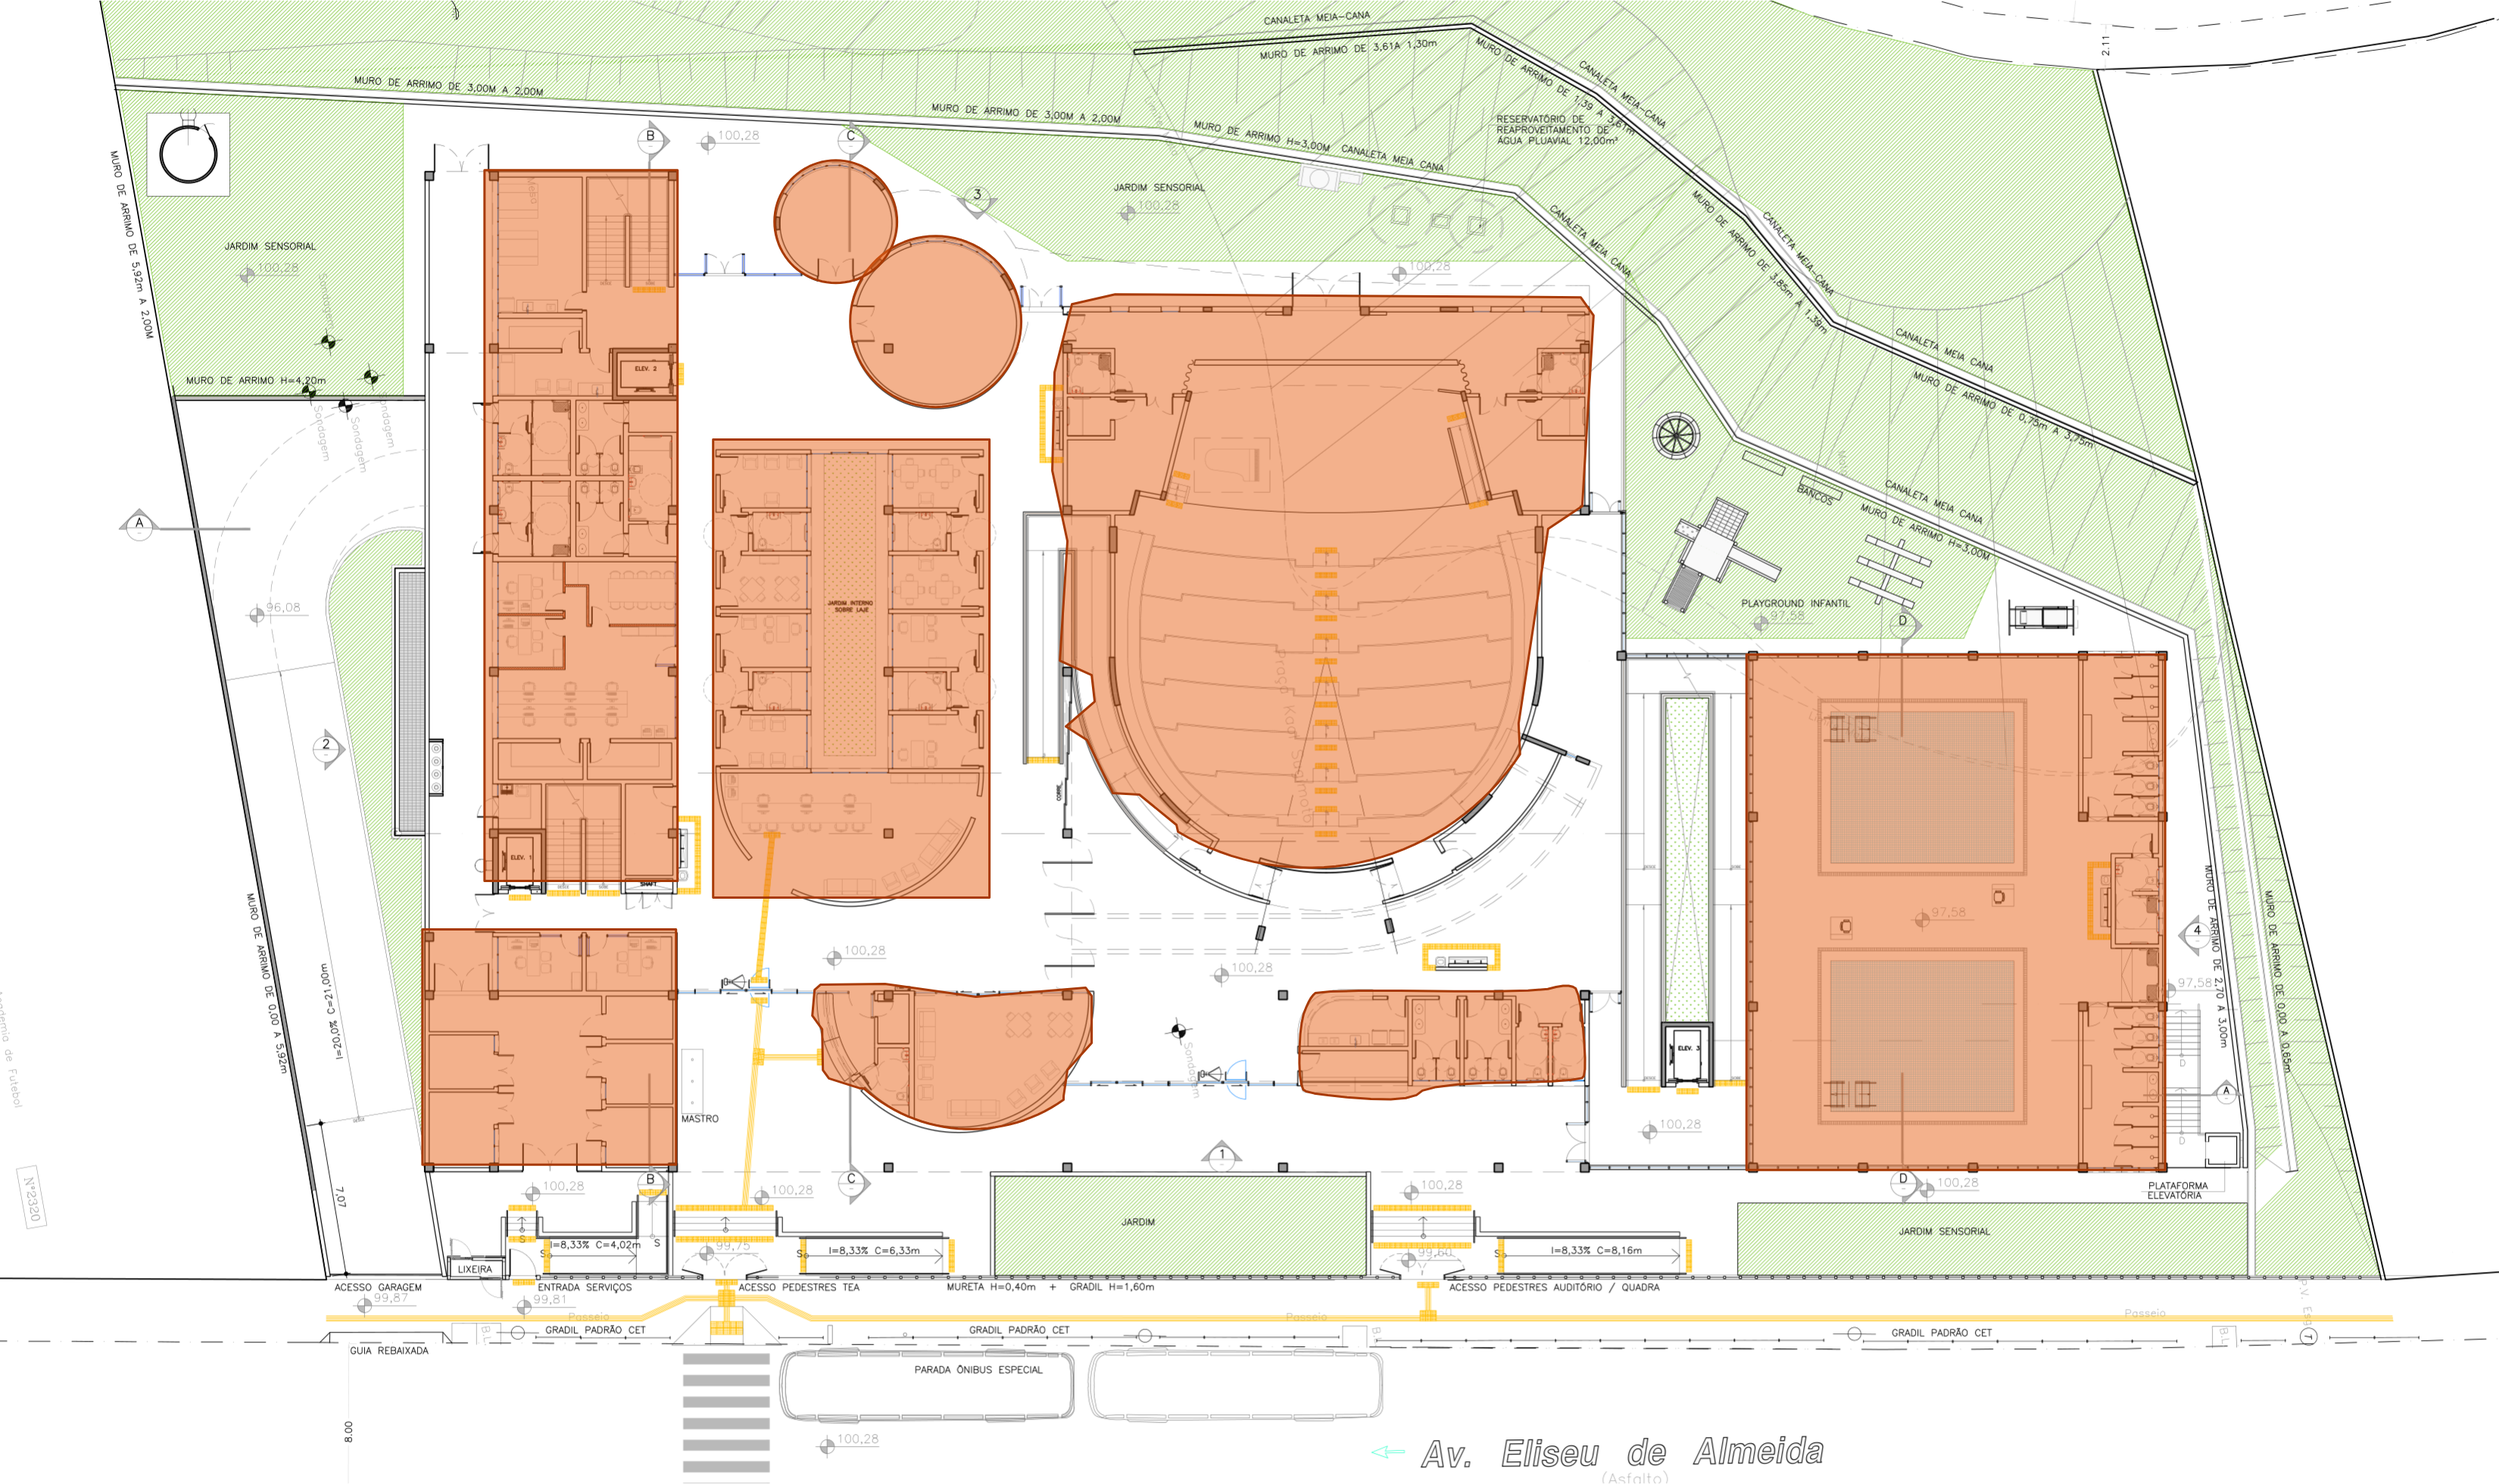
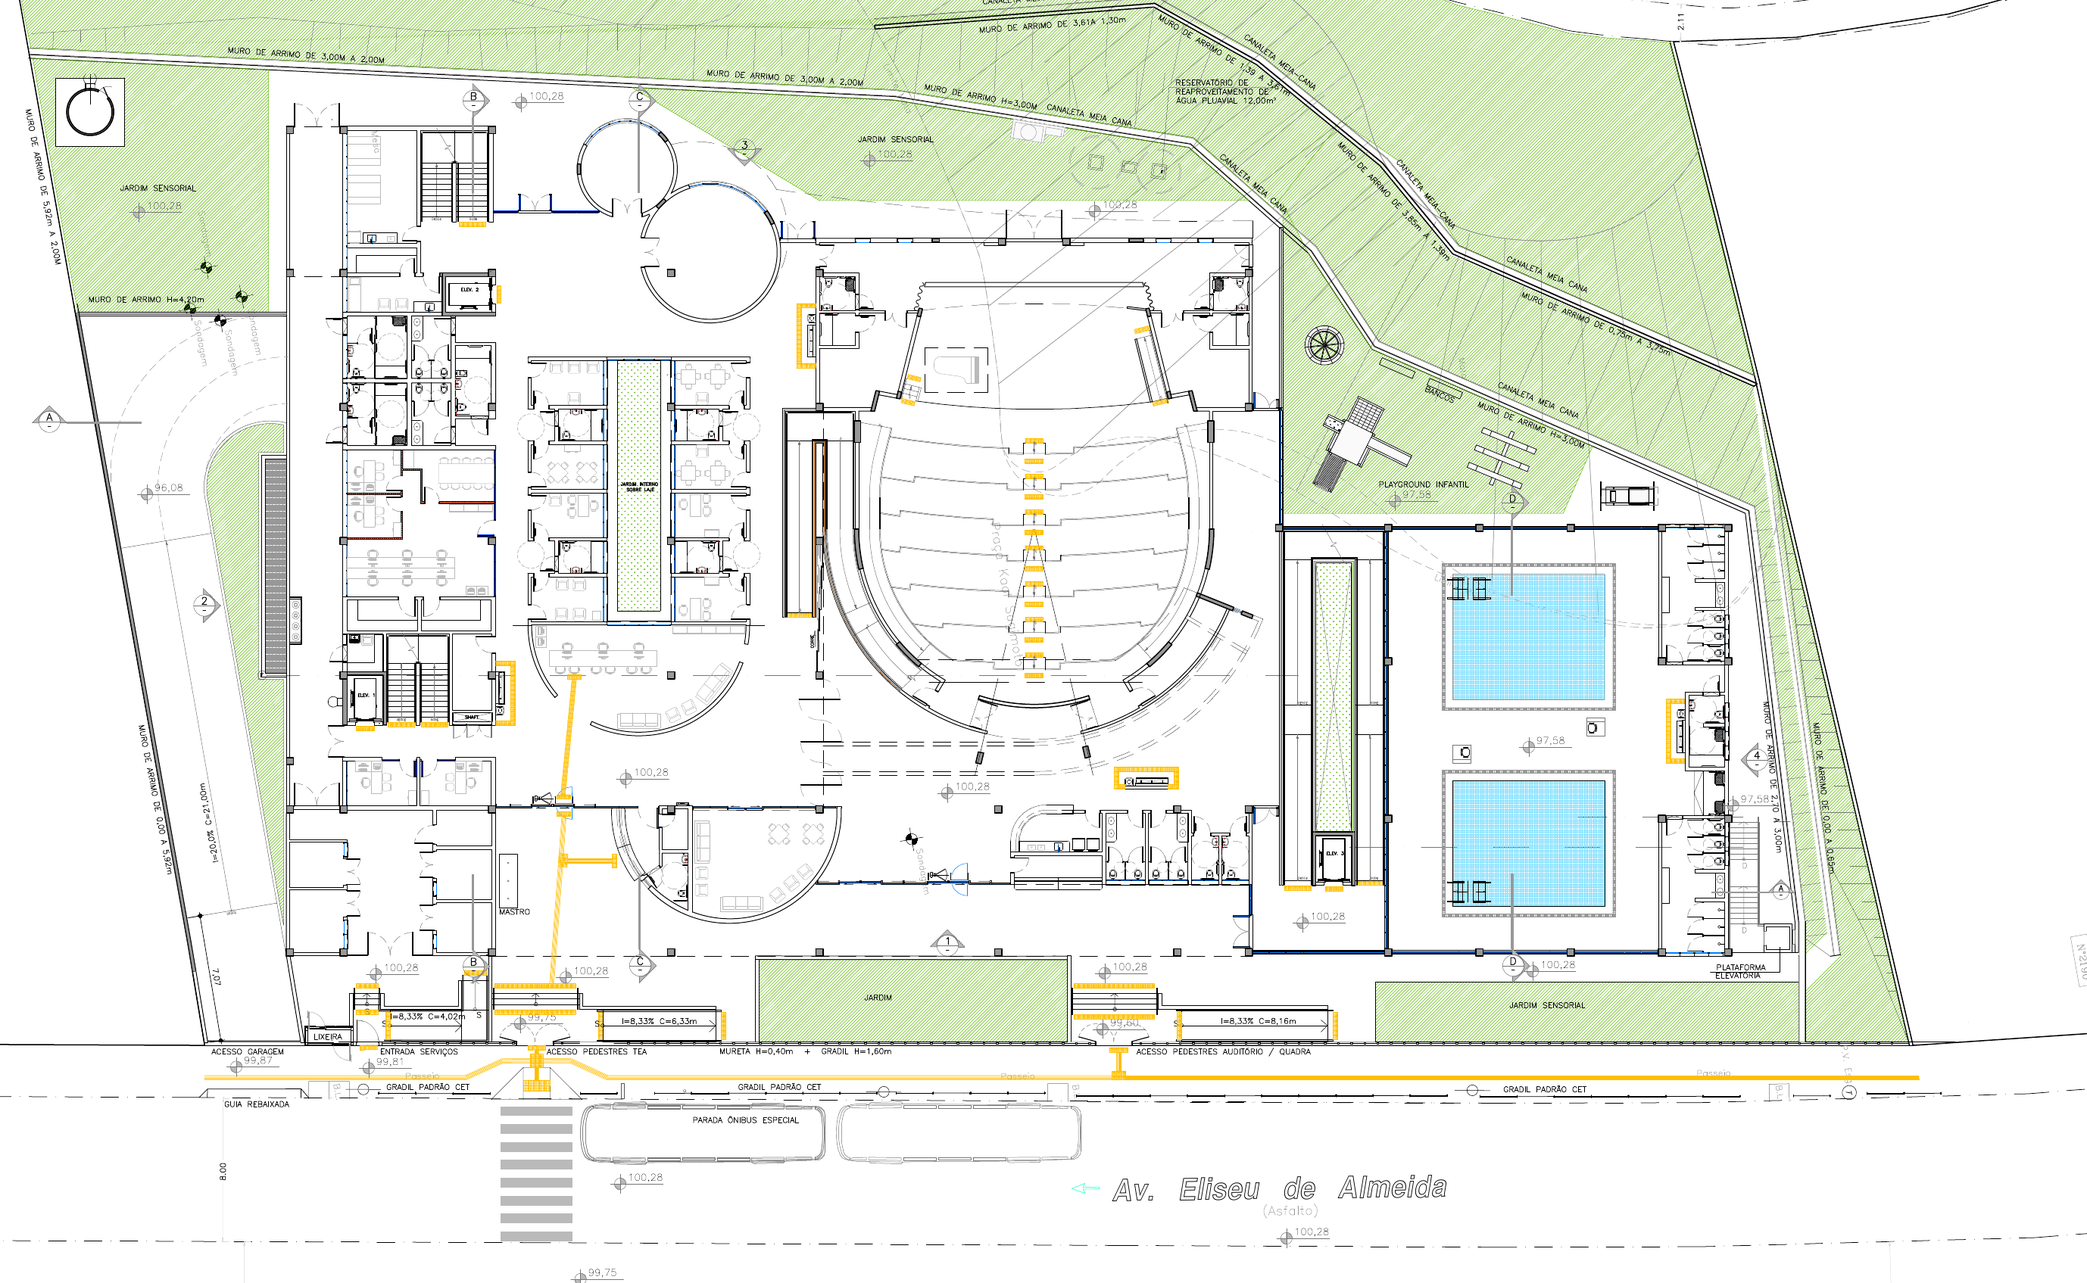
CAAB: implantacao do Oeste sem o laranja, e slide 8 enxuto
Slide 7: a implantacao do TEA Oeste passa a ser a prancha original da
Secretaria — DE-SP-PD-06-4A-00-001-A, "IMPLANTACAO · TEA OESTE", SP
Obras, 1:250, do Anexo D —, extraida em 150 dpi e enquadrada no mesmo
recorte que ja estava no deck. Sai o preenchimento laranja dos blocos,
que nao era do desenho original; entram o paisagismo em verde e as
duas piscinas do bloco leste, que a versao anterior chapava.

Slide 8: cai o item 05 ("Sem bolha") e caem os rotulos em negrito de
todos os itens. Cada linha passa a ser a frase direta, sem o nome do
conceito na frente.

NAO PUBLICADO: commit local, a pedido do Michel, que esta mandando uma
serie de ajustes antes de subir.

Claude-Session: https://claude.ai/code/session_01ASWB457RM7vyLPPQ6RBgnd

diff --git a/centro-tea-butanta/apresentacao.html b/centro-tea-butanta/apresentacao.html
@@ -4533,7 +4533,7 @@ const DECK=[
 {"g":"divisor","div":1,"terra":1,"fundo":1,"sec":"introdução","dn":"01","dt":"introdução","ds":"A proposta nasce no encontro de três coisas. Antes de mostrar o que está no meio, é preciso desenhar os três círculos."},
 {"g":"conceitos","kick":"o método do argumento","t":"três conceitos","itens":[{"q":"o equipamento","x":"O que a SMPED faz, o que já construiu e o que o termo de referência pede.","slot":"o Centro TEA já construído","imgs":["img/tea-construido-01.jpg"]},{"q":"o desejável","x":"O que a arquitetura sabe sobre espaço para pessoas no espectro.","slot":"referências projetuais","imgs":["img/ref-aspectss.jpg"]},{"q":"o patrimônio histórico","x":"O que este conjunto foi, e o papel que desempenhou na cidade.","slot":"imagem histórica do conjunto","imgs":["img/conjunto-rua-interna.jpg"]}]},
 {"g":"lista","largo":1,"kick":"círculo 01","t":"o Centro TEA da SMPED","itens":[["01","<b>Já existe unidade operando.<\/b> O primeiro centro municipal foi entregue e está em uso — é o modelo da casa."],["02","<b>O TEA Oeste já tem o programa escrito.<\/b> O termo de referência detalha cada ambiente — quantidade, lotação e área. É esse o programa que serve de base para o nosso projeto."],["03","<b>Rede, não equipamento isolado.<\/b> Saúde, educação e assistência articuladas em torno do vínculo familiar."]],"src":"img/implantacao-tea-oeste.jpg","alt":"Implantação do projeto do Centro TEA Zona Oeste","leg":"Implantação do projeto TEA Zona Oeste · SMPED"},
-{"g":"lista","largo":1,"kick":"círculo 02","t":"o que o espaço faz por quem é atendido","itens":[["01","<b>Gradiente sensorial.<\/b> O edifício se organiza por nível de estímulo, não por função administrativa."],["02","<b>Transição.<\/b> Entre o alto e o baixo estímulo existe um espaço que recalibra — não se passa de um ao outro por uma porta."],["03","<b>Refúgio.<\/b> Lugares de retirada distribuídos, ajustáveis por quem os usa."],["04","<b>Percurso previsível.<\/b> Sequência legível, sem bifurcação e sem retorno."],["05","<b>Sem bolha.<\/b> A escala inteira de estímulo dentro do edifício, para que se transite por ela."]]},
+{"g":"lista","largo":1,"kick":"círculo 02","t":"o que o espaço faz por quem é atendido","itens":[["01","O edifício se organiza por nível de estímulo, não por função administrativa."],["02","Entre o alto e o baixo estímulo existe um espaço que recalibra — não se passa de um ao outro por uma porta."],["03","Lugares de retirada distribuídos, ajustáveis por quem os usa."],["04","Sequência legível, sem bifurcação e sem retorno."]]},
 {"g":"tempo","kick":"o lugar no tempo","cobre":640,"de":1925,"ate":2026,"items":[{"ano":"1930","src":"img/tempo-1930.jpg","ficha":"Levantamento Sara Brasil · 1930 · carta","t":"Sara Brasil: o sítio antes de tudo","cap":"Chácara rural na divisa do município. O córrego Charco Grande corta o terreno e a mata ocupa o que hoje é o parque. Não há uma construção sequer no perímetro.","gal":[{"src":"img/ep-mappa.jpg","rot":"séc. XVIII","cap":"Mappa da Capitania de São Paulo, século XVIII — o caminho de Pirajussara já atravessa a várzea."}]},{"ano":"1940","x":1940,"ficha":"Foto aérea · 1940 · voo PMSP, quadrícula FM5-019 <span class=\"pend\">sem registro geométrico — ver nota<\/span>","t":"antes do hipódromo","vazio":"1940 · sem registro geométrico","cap":"Campo, mata e estrada de terra. <b>Esta é a única das cinco que não entrou no enquadramento comum<\/b>: sem pista, sem malha urbana e sem nenhuma feição que sobreviva até 1954, não há como amarrá-la às outras por medição. Ela entra ao lado, fora do registro."},{"ano":"1954","x":1954,"ficha":"Foto aérea · 1954 · voo PMSP, quadrícula FX03-173","t":"a pista no meio da várzea","vazio":"Foto aérea 1954 · quadrícula FX03-173 · a baixar no GeoSampa","src":"img/tempo-1954.jpg","cobre":1180,"cap":"A pista de treino e as duas fileiras de cocheiras já estão no lugar, e em volta ainda é chácara: estrada de terra, campo e mata. A cidade chega pela direita. <b>Registro pela pista oval<\/b> — ela é a única feição que atravessa os cinquenta anos até a foto de 2004.","gal":[{"src":"img/ep-turf1960.jpg","rot":"Turf · 1960","cap":"Primeira edição da revista Turf-Fomento, 1960."},{"src":"img/ep-leilao1961.jpg","rot":"leilão · 1961","cap":"Leilão de potros na Chácara, Turf-Fomento, 1961 — o pátio em plena atividade."},{"src":"img/ep-varzea.jpg","rot":"várzea · anos 60","cap":"A várzea do Pirajussara nos anos 1960, antes da canalização. Autoria não identificada."}]},{"ano":"s/d","x":1962,"src":"img/tempo-vasp.jpg","ficha":"Carta Vasp-Cruzeiro · <span class=\"pend\">sem data no metadado — confirmar no DPH<\/span>","t":"Vasp-Cruzeiro: a era hípica desenhada","cap":"A pista oval de treino e as duas fileiras de cocheiras aparecem com todos os módulos. É a única peça que registra o conjunto em pleno funcionamento — e a borda esquerda está cortada no fim do mosaico.","gal":[{"src":"img/ep-gp1961.jpg","rot":"GP SP · 1961","cap":"Grande Prêmio São Paulo, Turf-Fomento, 1961."},{"src":"img/ep-arquib1961.jpg","rot":"arquibancada · 1961","cap":"A arquibancada em dia de prova, Turf-Fomento, 1961."},{"src":"img/ep-capa1962.jpg","rot":"capa · 1962","cap":"Capa da Turf-Fomento de 1962, fotografada na própria Chácara."}]},{"ano":"1988","src":"img/tempo-1988.jpg","ficha":"Folhas do Livro da Vegetação · 1988 · carta","t":"Livro da Vegetação: o miolo limpo","cap":"A carta registra a massa verde apenas no perímetro do conjunto. Entre os dois agrupamentos de edificações não há arborização mapeada. É o ponto de partida do argumento.","gal":[{"src":"img/ep-ilustra1973.jpg","rot":"Turf · 1973","cap":"Ilustração da Turf-Fomento, agosto de 1973."},{"src":"img/ep-jockey1980.jpg","rot":"Jockey · 1980","cap":"O Jockey Club em 1980."}]},{"ano":"1996","x":1996,"ficha":"Foto aérea · fev/1996 · Base S.A. para a PMSP, 1:5.000","t":"o conjunto cercado pela cidade","vazio":"Foto aérea 1994/1996 · a baixar no GeoSampa","src":"img/tempo-1996.jpg","cobre":640,"cap":"A várzea virou bairro. O conjunto sobrevive inteiro dentro do quarteirão, com as cocheiras ainda em uso e o miolo da pista limpo."},{"ano":"2000","x":2000,"ficha":"Foto aérea · mai/2000 · Base S.A. / SEMAB-Resolo, 1:6.000","t":"o último registro em atividade","vazio":"Fotos aéreas 2000 e 2001 · a baixar no GeoSampa","src":"img/tempo-2000.jpg","cobre":640,"cap":"O miolo ainda é campo aberto e a alameda central atravessa o conjunto de ponta a ponta."},{"ano":"2004","src":"img/tempo-2004.jpg","ficha":"Ortofoto MDC · 2004 · 1:1.000","t":"A alameda ainda aberta","cap":"Dezesseis anos depois, a alameda central entre os dois agrupamentos continua livre. Telhados íntegros, perímetro arborizado, miolo sem nada.","gal":[{"src":"img/ep-radiohead.jpg","rot":"2009","cap":"2009: o terreno chegou a ser cogitado para um show do Radiohead — registro da circulação da ideia na imprensa."}]},{"ano":"2017","src":"img/tempo-2017.jpg","ficha":"Ortofoto PMD · 2017","t":"As primeiras árvores no miolo","cap":"Aqui começam a aparecer, esparsas, as árvores entre as fileiras. Nenhuma plantada por projeto: são espontâneas, nascidas da ausência de manejo depois do fim da atividade hípica.","gal":[{"src":"img/ep-inaug.jpg","rot":"inauguração","cap":"A inauguração do Parque Chácara do Jockey."}]},{"ano":"2020","src":"img/tempo-2020.jpg","ficha":"Ortofoto · 2020 · 10 cm/px","t":"O miolo tomado","cap":"Em três anos a alameda fecha. As copas encostam nos telhados e passam a representar risco direto sobre o bem tombado. É o estado que o projeto encontra.","gal":[{"src":"img/ep-motiva.jpg","rot":"2026","cap":"Ação do programa Motiva no parque, 2026 — o uso público já instalado."}]}],"atalho":"linha do tempo"},
 {"g":"divisor","div":2,"terra":1,"fundo":1,"sec":"o edifício","dn":"02","dt":"o edifício existente","ds":"Qualidades e desafios de um conjunto que já existe."},
 {"g":"earth-3d","lat":-23.599136,"lng":-46.744936,"alt":760,"compacto":1,"kick":"o lugar","h2":"o Parque Chácara do Jockey","lead":"Rua Santa Crescência · Ferreira, Butantã · São Paulo","temas":[{"bt":"qualidades e oportunidades","t":"qualidades e oportunidades","itens":[["01","<b>Sequência pronta.<\/b> Os braços longilíneos são percurso linear e previsível, sem bifurcação."],["02","<b>Compartimentação pronta.<\/b> A malha de baias está na escala do atendimento em grupo pequeno."],["03","<b>Arvoredo maduro.<\/b> Estímulo natural é regulador, e não se planta em dois anos."],["04","<b>Endereço com história.<\/b> Um bem ocioso volta à vida pública."]]},{"bt":"desafios","t":"desafios","itens":[["01","<b>Geometria restritiva.<\/b> Espaços estreitos e alongados; na origem, longos corredores. Condiciona tudo que peça vão livre."],["02","<b>Arborização em posição de risco.<\/b> Exemplares encostados no beiral, com galhos sobre a estrutura do telhado. Risco de dano ao bem e de acidente.",[{"src":"img/arvore-01.jpg","t":"arborização em posição de risco","cap":"Exemplares crescidos dentro do pátio: tronco encostado no beiral e trepadeira sobre o telhado."},{"src":"img/arvore-02.jpg","t":"arborização em posição de risco","cap":"A mata avançou sobre a fileira — raízes levantando o piso e galhos apoiados na estrutura da cobertura."},{"src":"img/arvore-03.jpg","t":"arborização em posição de risco","cap":"Por dentro: a luz entra por onde a telha já cedeu."}]],["03","<b>Acústica.<\/b> Pé-direito alto, superfície dura e vão contínuo produzem reverberação longa — o risco sensorial mais sério do conjunto."]]},{"bt":"leitura do tombamento","t":"a proteção como liberdade","itens":[["01","<b>A proteção recai sobre as fachadas.<\/b> As características arquitetônicas externas são o objeto do tombamento."],["02","<b>O interior está livre.<\/b> A reorganização interna é possível — e é ela que gera os salões amplos."],["03","<b>A área livre dispensa análise prévia.<\/b> O que exige vão grande encontra lugar fora do rito."],["04","<b>O que se altera deixa testemunho.<\/b> A resolução exige preservar o traço do original."]],"img":"img/conpresp-f1.jpg","imgAlt":"Mapa da Resolução 53/CONPRESP/2018, folha 1: perímetro do Parque Chácara do Jockey, área envoltória e as quatro edificações tombadas","imgCap":"Res. 53/CONPRESP/2018 · folha 1/2"}],"cap":"Conjunto da antiga sede do Jockey Club, dentro do parque público. Tombado pela Resolução CONPRESP 53/2018 em três conjuntos.","fotos":[{"src":"img/visita-01.jpg","cap":"A alameda entre duas fileiras de cocheiras — a árvore cresceu no eixo e levantou o piso."},{"src":"img/visita-02.jpg","cap":"A mesma alameda em perfil: a trepadeira tomou os beirais dos dois lados."},{"src":"img/visita-03.jpg","cap":"Pátio entre fileiras, com o piso de grama seca e a árvore no centro."},{"src":"img/visita-04.jpg","cap":"O portão de um dos pátios, visto do parque — ao fundo, o galpão azul."},{"src":"img/visita-05.jpg","cap":"A empena cega da cocheira e o caminho do parque que corre ao lado."},{"src":"img/visita-06.jpg","cap":"Pátio interno: as baias de tijolo e a passarela que cruza ao fundo."},{"src":"img/visita-07.jpg","cap":"O conjunto visto do parque, com a cidade por cima do telhado."},{"src":"img/visita-08.jpg","cap":"A alvenaria de tijolo e o embasamento — a eflorescência marca a umidade ascendente."},{"src":"img/visita-09.jpg","cap":"O caminho de serviço entre o muro do conjunto e a mata do parque."},{"src":"img/visita-10.jpg","cap":"A rua coberta entre os galpões, com a passarela metálica sobre o eixo."},{"src":"img/visita-11.jpg","cap":"O pátio pavimentado diante do galpão de dois pavimentos."},{"src":"img/visita-12.jpg","cap":"A passarela metálica vista de baixo — estrutura independente da alvenaria."},{"src":"img/visita-13.jpg","cap":"A esquina da cocheira e o pátio de manobras, com a torre ao fundo."},{"src":"img/visita-14.jpg","cap":"O portal de entrada do conjunto, com o vão central passante."},{"src":"img/visita-15.jpg","cap":"Pátio interno com a estrutura metálica nova apoiada fora do tijolo."},{"src":"img/visita-16.jpg","cap":"As baias com as portas de madeira originais e a ferragem de época."},{"src":"img/visita-17.jpg","cap":"Detalhe da porta de baia: folha em duas partes, ferrolho e dobradiça originais."},{"src":"img/visita-18.jpg","cap":"O terraço sobre a cobertura, com o fechamento metálico perfurado."},{"src":"img/visita-19.jpg","cap":"Corredor interno já reformado — piso vinílico e luminárias de linha."},{"src":"img/visita-20.jpg","cap":"O mesmo corredor, com o mobiliário em uso hoje."},{"src":"img/visita-21.jpg","cap":"O pátio de chegada e o portão lateral de acesso às cocheiras."},{"src":"img/visita-22.jpg","cap":"Alameda de baias com as portas brancas, e a árvore que fechou o fundo."},{"src":"img/visita-23.jpg","cap":"A rampa acessível já executada, junto ao galpão de dois pavimentos."},{"src":"img/visita-24.jpg","cap":"A rua interna em toda a extensão: o muro de um lado, o galpão do outro."}],"fotosRot":"a visita ao lugar","anot":[{"lat":-23.600356,"lng":-46.742889,"tipo":"ctx","h":104,"rot":"futura estação Chácara do Jockey · Linha 4"},{"lat":-23.599411,"lng":-46.74499,"tema":2,"h":52,"rot":"1 · cocheiras"},{"lat":-23.598694,"lng":-46.744539,"tema":2,"h":70,"rot":"1 · cocheiras"},{"lat":-23.599182,"lng":-46.744914,"tema":2,"h":88,"rot":"2 · alojamento para cavalariços"},{"lat":-23.598299,"lng":-46.744543,"tema":2,"h":56,"rot":"3 · casa da administração"},{"lat":-23.598353,"lng":-46.744365,"tema":2,"h":96,"rot":"4 · escritórios"}]},
